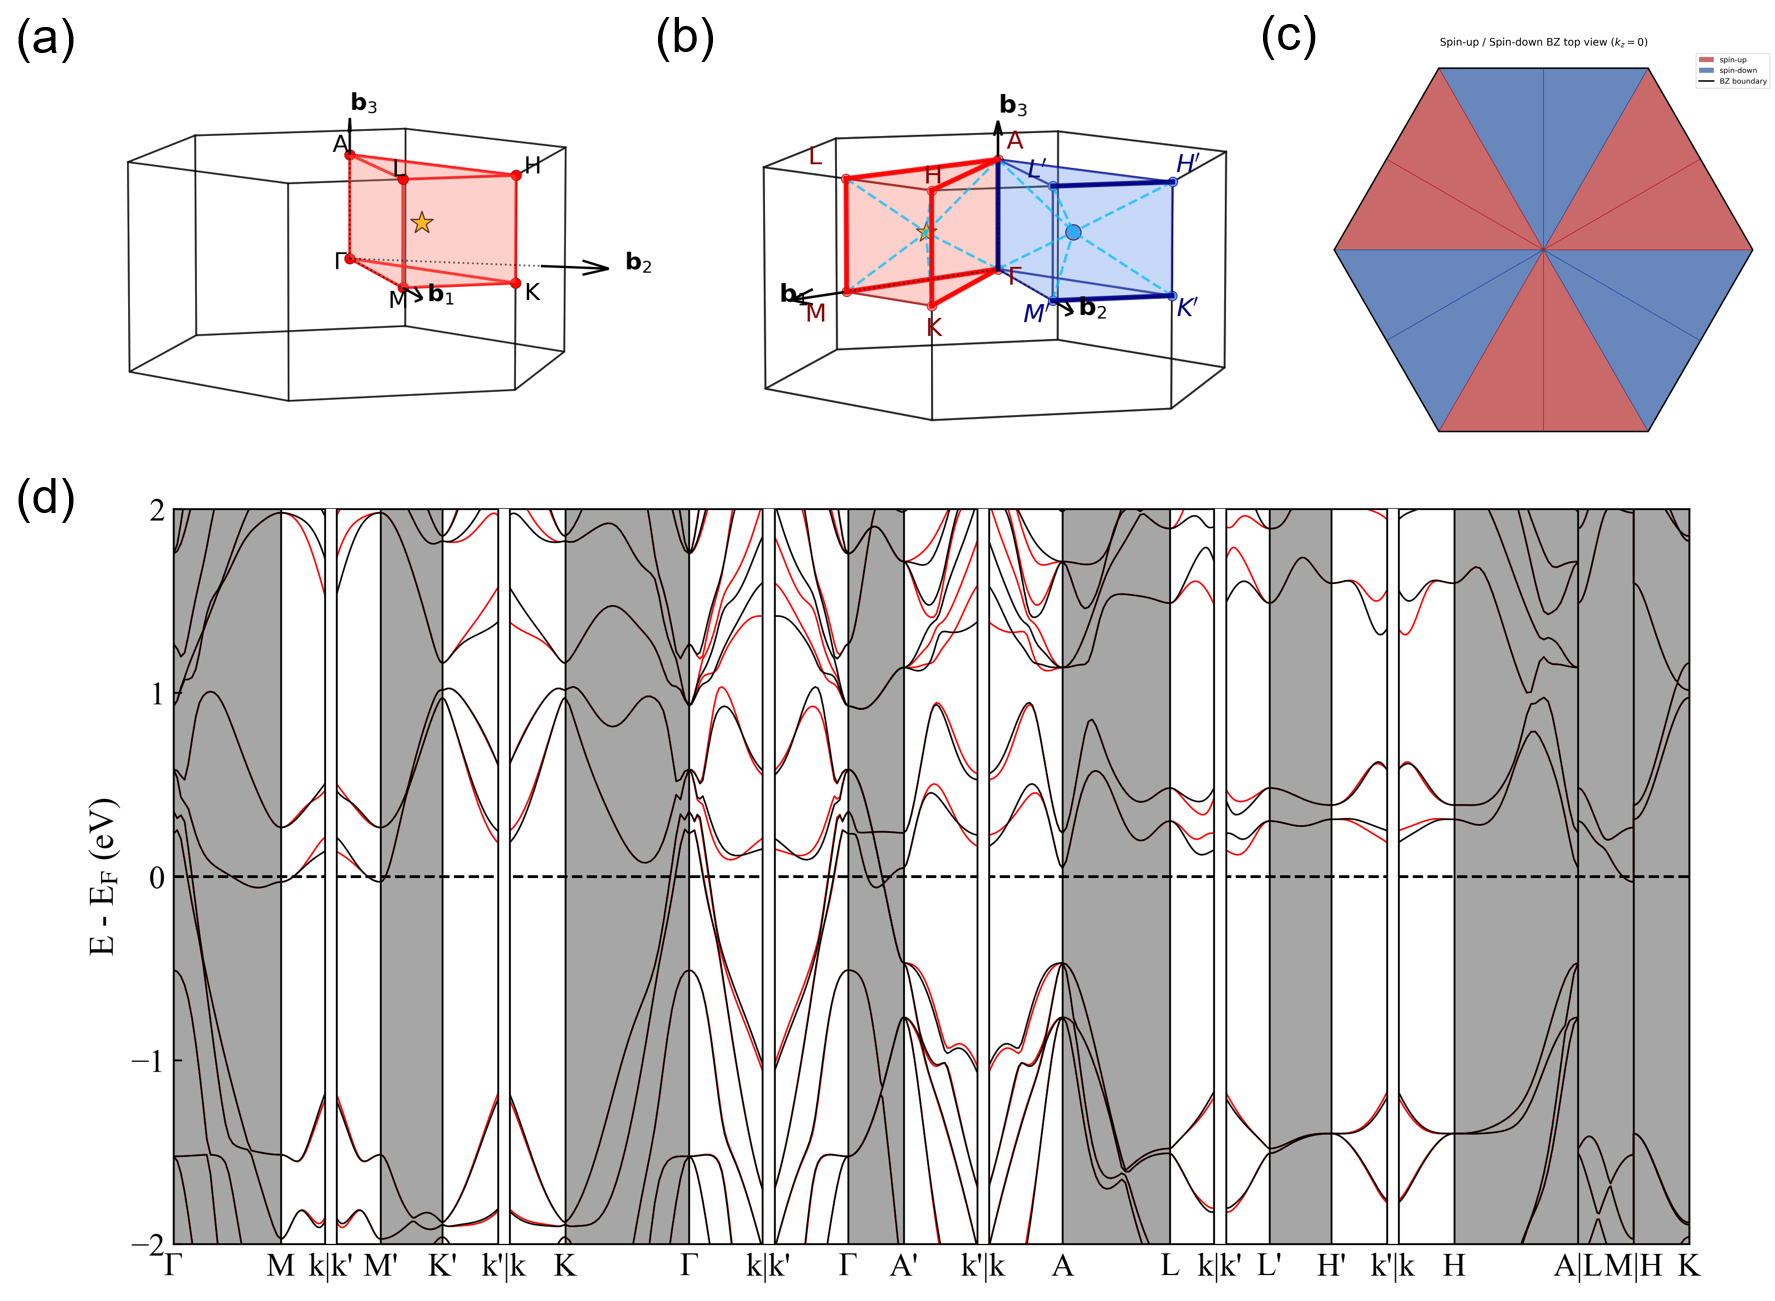
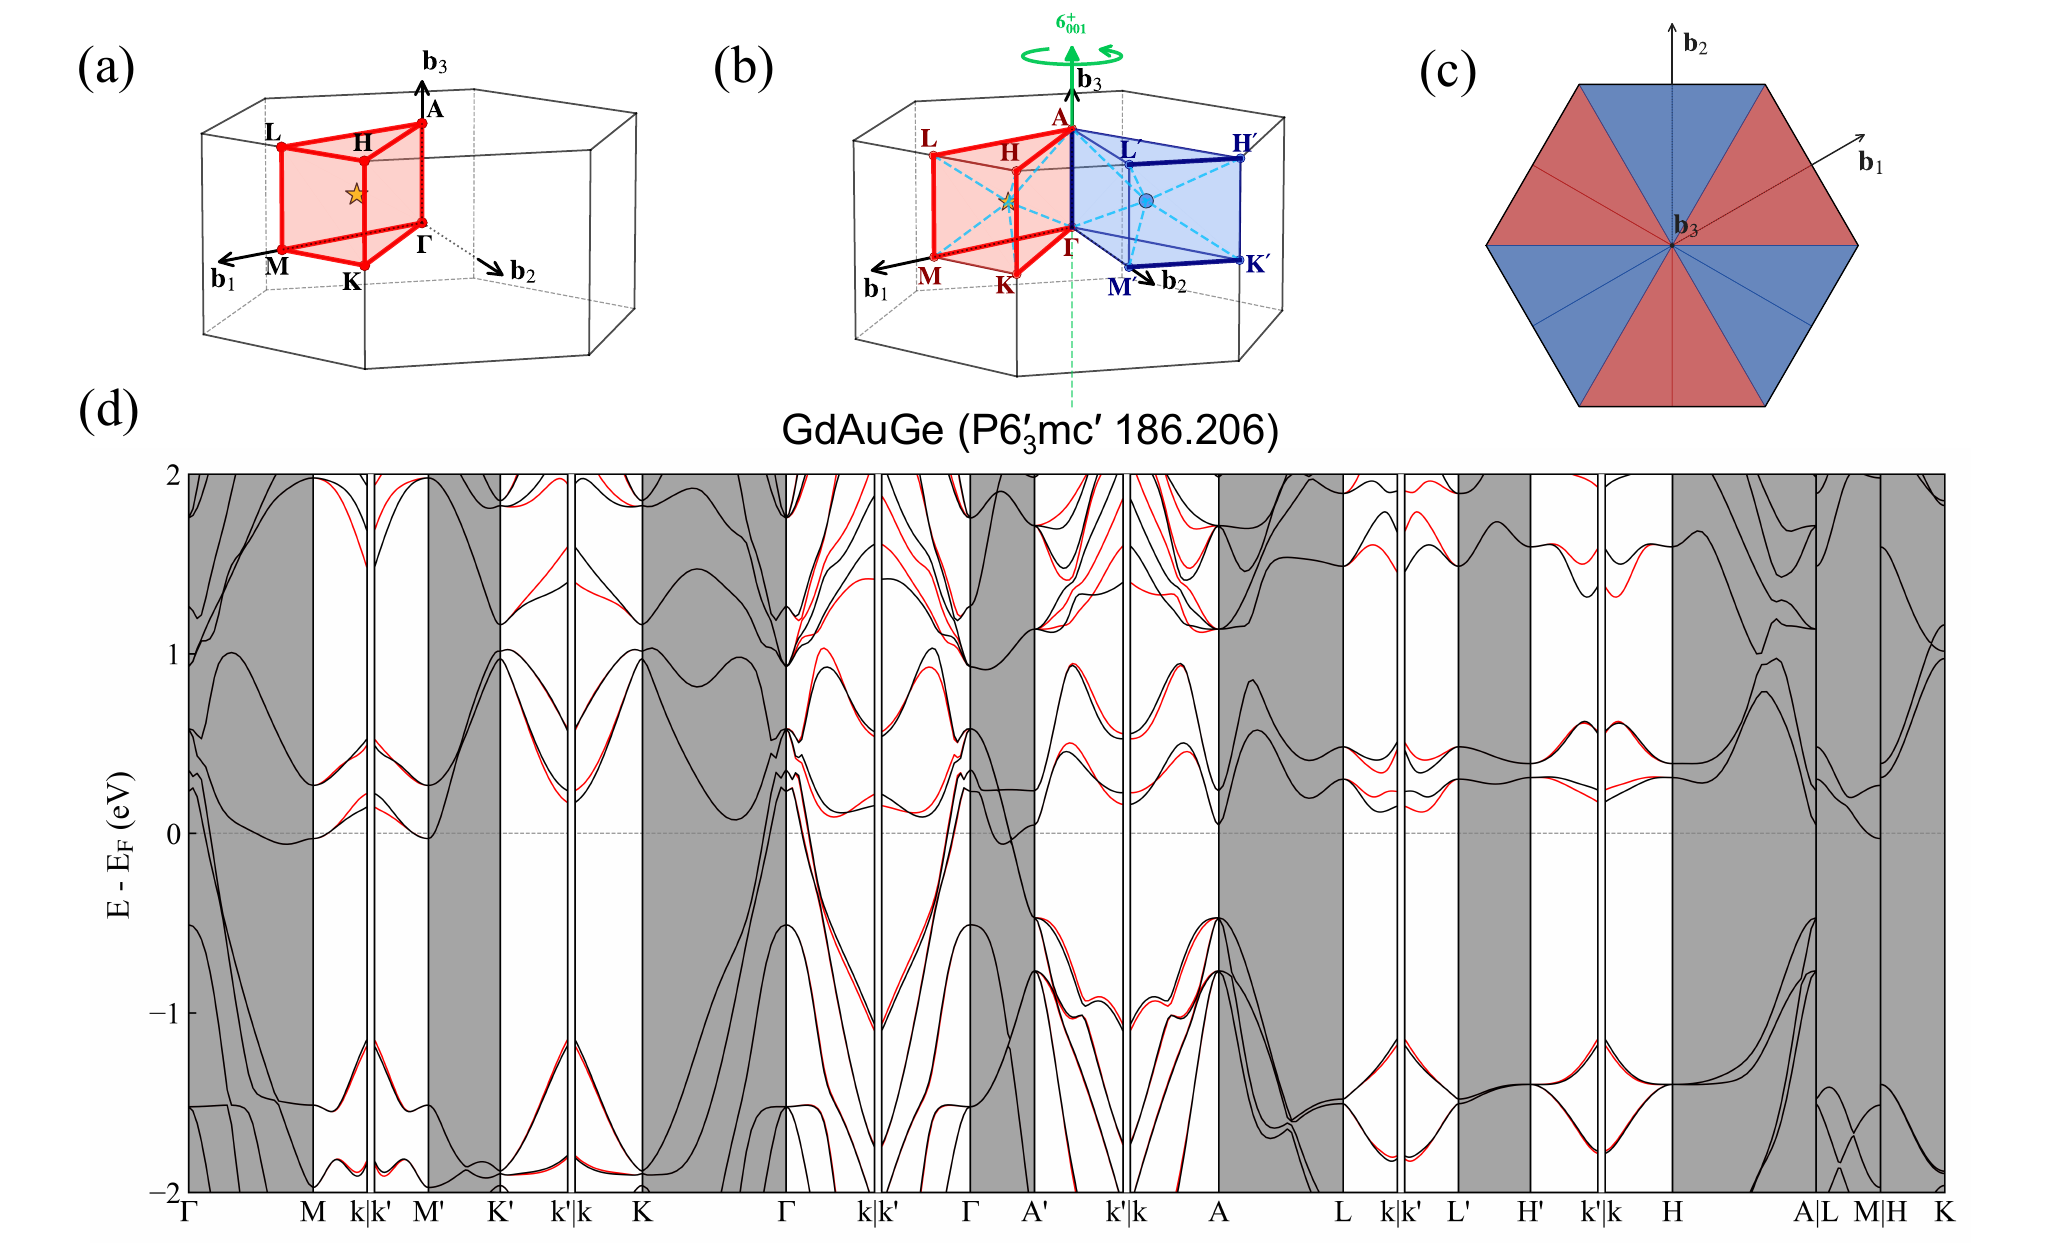
Improve 3D operation overlays and README figure

diff --git a/alterseek/plotting_3d.py b/alterseek/plotting_3d.py
@@ -359,6 +359,7 @@ def _draw_op_visual(ax, R_cart, bz_loops, bz_radius, b_matrix,
         # Stand-out color so the rotation axis is easy to spot against the
         # red/navy IBZ and black BZ frame. Override with ALTERSEEK_OP_AXIS_COLOR.
         AXIS_COLOR = os.environ.get('ALTERSEEK_OP_AXIS_COLOR', '#00c853')
+        OP_ZORDER = 200
 
         # Axis exits BZ at bz_exit along +axis and bz_exit_neg along -axis.
         # Extend beyond the BZ so the arrow is always visibly longer than the BZ
@@ -373,7 +374,8 @@ def _draw_op_visual(ax, R_cart, bz_loops, bz_radius, b_matrix,
         # through Γ without overpowering the figure.
         ax.plot(
             [base[0], 0.0], [base[1], 0.0], [base[2], 0.0],
-            color=AXIS_COLOR, lw=1.6, ls='--', alpha=0.55, zorder=6,
+            color=AXIS_COLOR, lw=1.6, ls='--', alpha=0.55,
+            zorder=OP_ZORDER,
         )
         # Solid arrowhead at the tip (like the c_n axis arrow in the reference).
         head_len = bz_radius * 0.18
@@ -381,14 +383,21 @@ def _draw_op_visual(ax, R_cart, bz_loops, bz_radius, b_matrix,
         # Upper shaft stops at the arrow base; the final segment is the arrow.
         ax.plot(
             [0.0, shaft_pt[0]], [0.0, shaft_pt[1]], [0.0, shaft_pt[2]],
-            color=AXIS_COLOR, lw=2.8, ls='-', alpha=0.95, zorder=6,
+            color=AXIS_COLOR, lw=2.8, ls='-', alpha=0.95,
+            zorder=OP_ZORDER,
         )
-        axis_arrow = _Arrow3D(
-            [shaft_pt[0], tip[0]], [shaft_pt[1], tip[1]], [shaft_pt[2], tip[2]],
-            arrowstyle='-|>', mutation_scale=26,
-            color=AXIS_COLOR, lw=2.8, shrinkA=0, shrinkB=0, zorder=8,
+        axis_arrow = ax.annotate(
+            '', xy=_screen_xy(ax, tip), xytext=_screen_xy(ax, shaft_pt),
+            xycoords=ax.transData, textcoords=ax.transData,
+            arrowprops=dict(
+                arrowstyle='-|>', mutation_scale=26,
+                color=AXIS_COLOR, lw=2.8, shrinkA=0, shrinkB=0,
+            ),
+            zorder=OP_ZORDER + 1, annotation_clip=False,
         )
-        ax.add_artist(axis_arrow)
+        axis_arrow.set_clip_on(False)
+        if axis_arrow.arrow_patch is not None:
+            axis_arrow.arrow_patch.set_clip_on(False)
 
         # Curved rotation arrow: a 3D ring in the plane perpendicular to the axis
         # (wraps around it). Drawn once as a plain 3D object, so it rotates WITH the
@@ -447,18 +456,24 @@ def _draw_op_visual(ax, R_cart, bz_loops, bz_radius, b_matrix,
         arc_line = ax.plot(arc_pts[:arc_head_start, 0],
                            arc_pts[:arc_head_start, 1],
                            arc_pts[:arc_head_start, 2],
-                           color=AXIS_COLOR, lw=3.0, alpha=0.95, zorder=9)[0]
+                           color=AXIS_COLOR, lw=3.0, alpha=0.95,
+                           zorder=OP_ZORDER)[0]
 
         # Draw only the final arc segment as an arrow. The plain arc stops at
         # the arrow base, so the stroke does not run through the arrowhead.
-        arc_arrow = _Arrow3D(
-            [arc_pts[arc_head_start, 0], arc_pts[-1, 0]],
-            [arc_pts[arc_head_start, 1], arc_pts[-1, 1]],
-            [arc_pts[arc_head_start, 2], arc_pts[-1, 2]],
-            arrowstyle='->', mutation_scale=22,
-            color=AXIS_COLOR, lw=3.0, shrinkA=0, shrinkB=0, zorder=9,
+        arc_arrow = ax.annotate(
+            '', xy=_screen_xy(ax, arc_pts[-1]),
+            xytext=_screen_xy(ax, arc_pts[arc_head_start]),
+            xycoords=ax.transData, textcoords=ax.transData,
+            arrowprops=dict(
+                arrowstyle='->', mutation_scale=22,
+                color=AXIS_COLOR, lw=3.0, shrinkA=0, shrinkB=0,
+            ),
+            zorder=OP_ZORDER + 1, annotation_clip=False,
         )
-        ax.add_artist(arc_arrow)
+        arc_arrow.set_clip_on(False)
+        if arc_arrow.arrow_patch is not None:
+            arc_arrow.arrow_patch.set_clip_on(False)
 
         # Bold label, kept general for any axis orientation:
         #  - vertical axes (C6/S3/C2∥c): push the label straight up past the tip.
@@ -475,7 +490,8 @@ def _draw_op_visual(ax, R_cart, bz_loops, bz_radius, b_matrix,
         label_x, label_y, _ = proj3d.proj_transform(*label_pt, ax.get_proj())
         label_artist = ax.text2D(
             label_x, label_y, order_str, transform=ax.transData,
-            fontsize=17, fontweight='bold', color=AXIS_COLOR, zorder=120,
+            fontsize=24, fontweight='bold', color=AXIS_COLOR,
+            zorder=OP_ZORDER + 2,
             ha='center', va='center',
         )
 
@@ -505,11 +521,10 @@ def _draw_op_visual(ax, R_cart, bz_loops, bz_radius, b_matrix,
                 arc_pts_now[:arc_head_start, 1],
                 arc_pts_now[:arc_head_start, 2],
             )
-            arc_arrow._verts3d = (
-                [arc_pts_now[arc_head_start, 0], arc_pts_now[-1, 0]],
-                [arc_pts_now[arc_head_start, 1], arc_pts_now[-1, 1]],
-                [arc_pts_now[arc_head_start, 2], arc_pts_now[-1, 2]],
-            )
+            axis_arrow.xy = _screen_xy(ax, tip)
+            axis_arrow.set_position(_screen_xy(ax, shaft_pt))
+            arc_arrow.xy = _screen_xy(ax, arc_pts_now[-1])
+            arc_arrow.set_position(_screen_xy(ax, arc_pts_now[arc_head_start]))
             label_x_now, label_y_now, _ = proj3d.proj_transform(
                 *label_pt, ax.get_proj()
             )
@@ -727,7 +742,7 @@ def plot_spin_flip_figure(b_matrix, bz_loops, bz_center, bz_span,
         # push all labels far from their points.
         _orig_pts = np.array(list(ibz_orig.values())) if ibz_orig else _all_pts
         _lbl_span = max(np.max(np.ptp(_orig_pts, axis=0)), 1e-8) if len(_orig_pts) else 1.0
-        _off_sc = _lbl_span * 0.10
+        _off_sc = _lbl_span * 0.1
 
         def _label_pts(pts_dict, color, edgecolor):
             for lbl, hpt in pts_dict.items():
